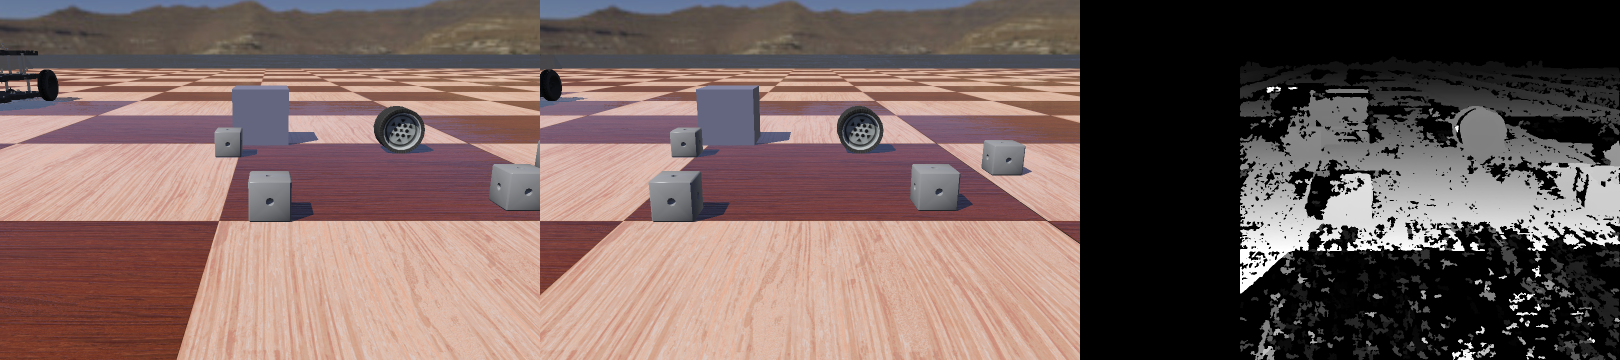
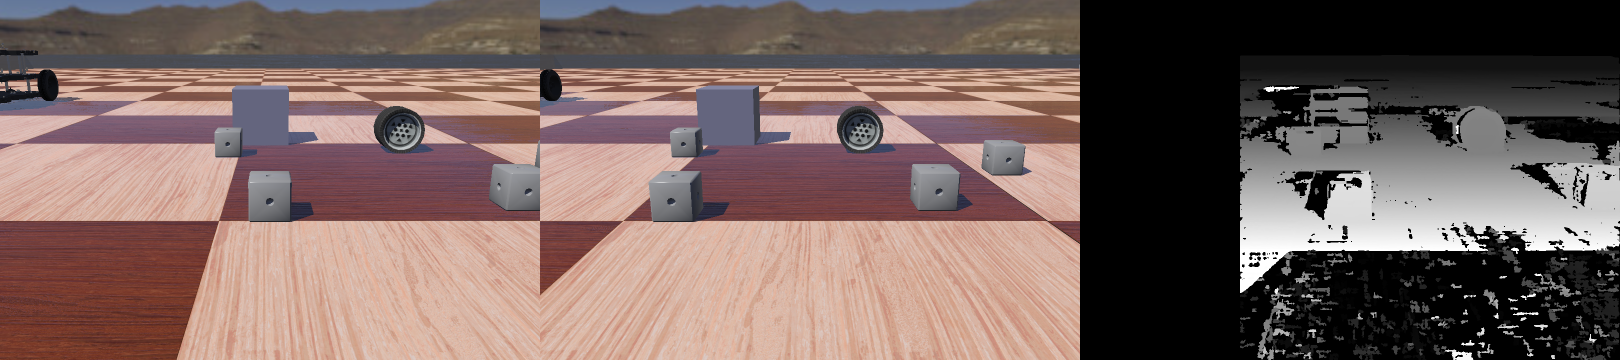
Convert 3d point cloud to 2d map

Changed region(s): [[0.7407, 0.1833, 1.0, 1.0]]

diff --git a/controllers/myCreate_map/myCreate_map.py b/controllers/myCreate_map/myCreate_map.py
@@ -5,6 +5,7 @@ import cv2
 import numpy as np
 import socket
 from random import randint
+import matplotlib.pyplot as plt
 
 
 
@@ -237,37 +238,7 @@ R1, R2, P1, P2, Q_reproj, validPixROI1, validPixROI2 = cv2.stereoRectify(
 map1_left, map2_left = cv2.initUndistortRectifyMap(K_left, D_left, R1, P1, (width, height), cv2.CV_16SC2)
 map1_right, map2_right = cv2.initUndistortRectifyMap(K_right, D_right, R2, P2, (width, height), cv2.CV_16SC2)
 
-
-counter = 0
-back_counter = 0
-update = True
-# Main loop
-while myCreate.step(TIMESTEP) != -1:
-    WHEEL_MAX_SPEED = 6.28
-    FORWARD_RATIO = 1 # 0.75
-
-    update = True
-    key = keyboard.getKey()
-    if key == ord('W'):
-        go(GO_FRONT)
-        print("GO_FRONT")
-    elif key == ord('S'):
-        go(GO_BACK)
-        print("GO_BACK")
-    elif key == ord('A'):
-        # turn(TO_LEFT)
-        my_turn(TO_LEFT)
-        print("TO_LEFT")
-    elif key == ord('D'):
-        # turn(TO_RIGHT)
-        my_turn(TO_RIGHT)
-        print("TO_RIGHT")
-    else:
-        # update = False
-        stop()
-
-
-
+def get_3d_point_cloud():
     # Inside your main loop:
     camRawLeft = camera_left.getImage()
     camRawRight = camera_right.getImage()
@@ -329,7 +300,7 @@ while myCreate.step(TIMESTEP) != -1:
         speckleWindowSize=50,
         speckleRange=2,
         preFilterCap=63,
-        # mode=cv2.STEREO_SGBM_MODE_SGBM_3WAY  # 增強一致性
+        mode=cv2.STEREO_SGBM_MODE_SGBM_3WAY  # 增強一致性
     )
     disparity = stereo.compute(gray_left_rectified, gray_right_rectified).astype(np.float32) / 16.0
 
@@ -351,7 +322,7 @@ while myCreate.step(TIMESTEP) != -1:
         cv2.resize(cv2.cvtColor(disparity_display, cv2.COLOR_GRAY2BGR), (width//r, height//r))
     ])
     cv2.imshow("Stereo Pipeline Debug", combined)
-    cv2.imwrite("StereoPipelineDebug.png", combined)
+    # cv2.imwrite("StereoPipelineDebug.png", combined)
 
 
     
@@ -398,13 +369,85 @@ while myCreate.step(TIMESTEP) != -1:
     # x, y = 391, 391
     # x, y = 354, 210
     # x, y = 583, 285
-    x, y = 534, 412
-    d = disparity[y, x]
-    print(f"Disparity at ({x},{y}): {d}")
-    point = depth_map[y, x]
-    print(f"Depth at ({x},{y}): {point:.2f} m")
+    # x, y = 534, 412
+    # d = disparity[y, x]
+    # print(f"Disparity at ({x},{y}): {d}")
+    # point = depth_map[y, x]
+    # print(f"Depth at ({x},{y}): {point:.2f} m")
+    return threeDPoint
 
+def view_map(point_cloud):
+    # 過濾不合法的點（NaN、inf、負Z）
+    mask = np.isfinite(point_cloud[:, :, 2]) & (point_cloud[:, :, 2] > 0)
+    points_valid = point_cloud[mask]  # shape: (N, 3)
+
+    # 取得 X-Z (忽略高度)
+    points_2d = points_valid[:, [0, 2]]  # shape: (N, 2)
+
+    cell_size = 0.05  # 每格 5cm
+    x_min, z_min = points_2d.min(axis=0)
+    x_max, z_max = points_2d.max(axis=0)
+
+    width_cells  = int(np.ceil((x_max - x_min) / cell_size))
+    height_cells = int(np.ceil((z_max - z_min) / cell_size))
+
+    # 建立空白地圖，初始為 -1（未知）
+    grid_map = np.full((height_cells, width_cells), -1, dtype=np.int8)
+
+    # 將點轉為 cell 座標
+    grid_x = ((points_2d[:, 0] - x_min) / cell_size).astype(int)
+    grid_y = ((points_2d[:, 1] - z_min) / cell_size).astype(int)
+
+    # 標記 cell 為可達（或障礙物）
+    for x, y in zip(grid_x, grid_y):
+        if 0 <= y < height_cells and 0 <= x < width_cells:
+            grid_map[y, x] = 0  # 你可以先標為可達區域
+
+    for x, y, point in zip(grid_x, grid_y, points_valid):
+        if 0 <= y < height_cells and 0 <= x < width_cells:
+            if point[1] > 0.1:  # 高度大於10cm
+                grid_map[y, x] = 1  # 有障礙物
+            else:
+                grid_map[y, x] = 0  # 可走
+
+    plt.imshow(grid_map, cmap='gray', origin='lower')
+    plt.title("2D Occupancy Grid Map")
+    plt.xlabel("X (grid)")
+    plt.ylabel("Z (grid)")
+    plt.show()
+
+
+counter = 0
+back_counter = 0
+update = True
+# Main loop
+while myCreate.step(TIMESTEP) != -1:
+    WHEEL_MAX_SPEED = 6.28
+    FORWARD_RATIO = 1 # 0.75
+
+    update = True
+    key = keyboard.getKey()
+    if key == ord('W'):
+        go(GO_FRONT)
+        print("GO_FRONT")
+    elif key == ord('S'):
+        go(GO_BACK)
+        print("GO_BACK")
+    elif key == ord('A'):
+        # turn(TO_LEFT)
+        my_turn(TO_LEFT)
+        print("TO_LEFT")
+    elif key == ord('D'):
+        # turn(TO_RIGHT)
+        my_turn(TO_RIGHT)
+        print("TO_RIGHT")
+    else:
+        # update = False
+        stop()
     
+    point_cloud = get_3d_point_cloud()
+    np.save('3dPointCloud', point_cloud)
+
     # Remember to also handle cv2.waitKey(1) and cv2.destroyAllWindows() properly in your main loop's exit condition.
     cv2.waitKey(1)
 

diff --git a/controllers/myCreate_map/view.py b/controllers/myCreate_map/view.py
@@ -1,0 +1,59 @@
+import matplotlib.pyplot as plt
+from mpl_toolkits.mplot3d import Axes3D
+import numpy as np
+
+VIEW = False
+
+point_cloud = np.load('3dPointCloud.npy')
+
+if VIEW == True:
+    fig = plt.figure()
+    ax = fig.add_subplot(111, projection='3d')
+    ax.scatter(point_cloud[:, :, 0], -point_cloud[:, :, 2], point_cloud[:, :, 1])
+    ax.set_xlabel('X')
+    ax.set_ylabel('Z')
+    ax.set_zlabel('Y')
+    plt.title('3D Point Cloud Visualization with Matplotlib')
+    plt.show()
+
+print(point_cloud.shape)
+
+# 過濾不合法的點（NaN、inf、負Z）
+mask = np.isfinite(point_cloud[:, :, 2]) & (point_cloud[:, :, 2] > 0)
+points_valid = point_cloud[mask]  # shape: (N, 3)
+
+# 取得 X-Z (忽略高度)
+points_2d = points_valid[:, [0, 2]]  # shape: (N, 2)
+
+cell_size = 0.1  # 每格 10cm
+x_min, z_min = points_2d.min(axis=0)
+x_max, z_max = points_2d.max(axis=0)
+
+width_cells  = int(np.ceil((x_max - x_min) / cell_size))
+height_cells = int(np.ceil((z_max - z_min) / cell_size))
+
+# 建立空白地圖，初始為 -1（未知）
+grid_map = np.full((height_cells, width_cells), -1, dtype=np.int8)
+
+# 將點轉為 cell 座標
+grid_x = ((points_2d[:, 0] - x_min) / cell_size).astype(int)
+grid_y = ((points_2d[:, 1] - z_min) / cell_size).astype(int)
+print(f"len: {len(grid_x)}, {len(grid_y)}")
+
+# 標記 cell 為可達（或障礙物）
+for x, y in zip(grid_x, grid_y):
+    if 0 <= y < height_cells and 0 <= x < width_cells:
+        grid_map[y, x] = 0  # 你可以先標為可達區域
+
+for x, y, point in zip(grid_x, grid_y, points_valid):
+    if 0 <= y < height_cells and 0 <= x < width_cells:
+        if point[1] > 0.1:  # 高度大於10cm
+            grid_map[y, x] = 1  # 有障礙物
+        else:
+            grid_map[y, x] = 0  # 可走
+
+plt.imshow(grid_map, cmap='gray', origin='lower')
+plt.title("2D Occupancy Grid Map")
+plt.xlabel("X (grid)")
+plt.ylabel("Z (grid)")
+plt.show()
